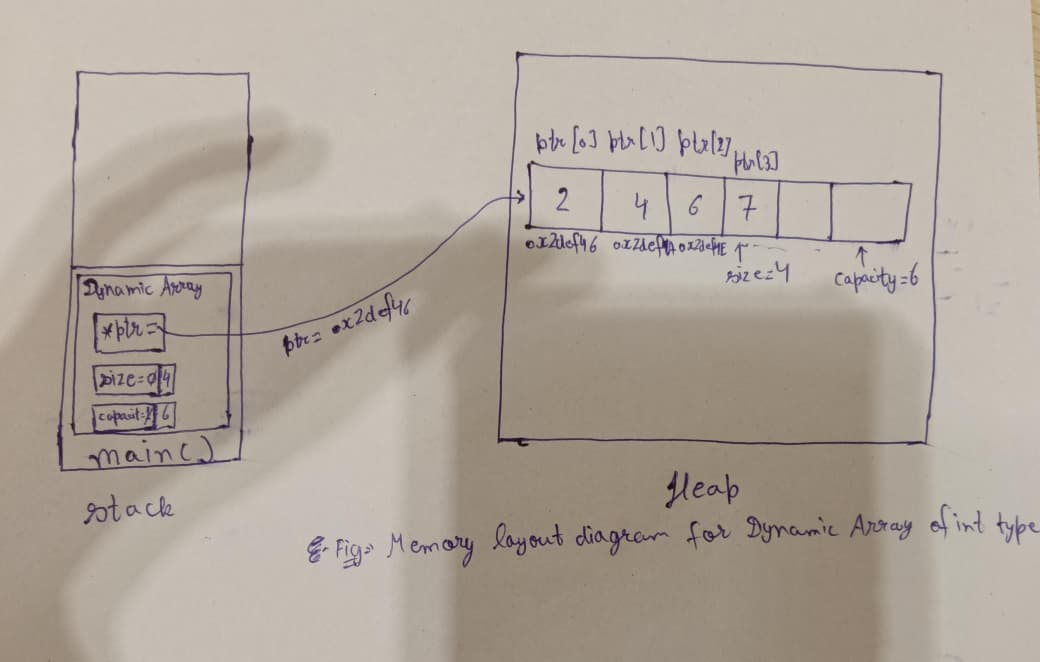
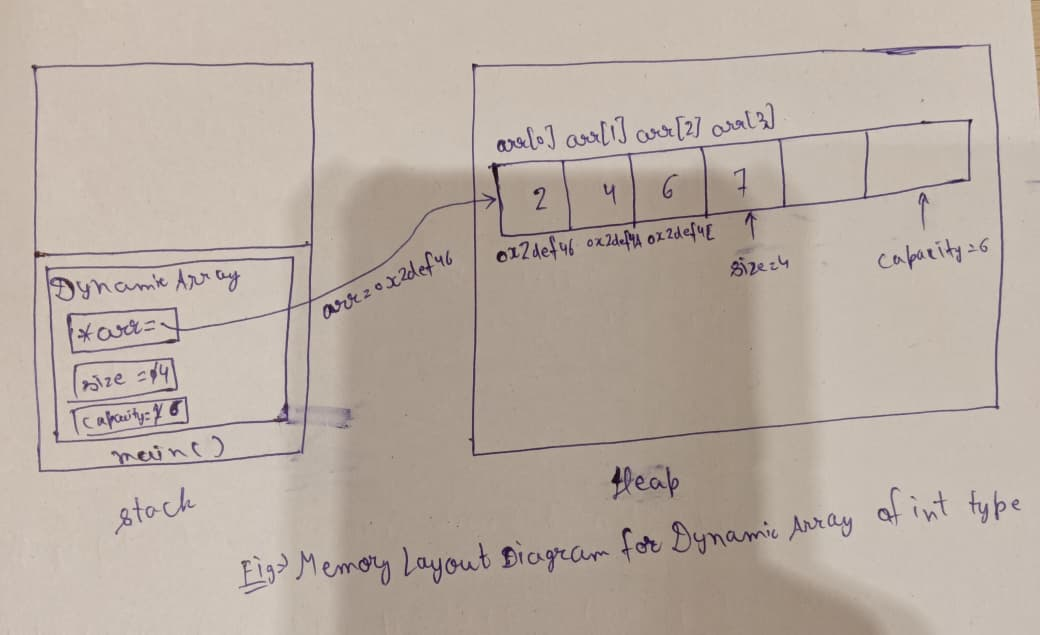
Finialized initial version

diff --git a/docs/dailyLogs/day1.md b/docs/dailyLogs/day1.md
@@ -1,0 +1,110 @@
+# Daily Log Journal
+
+**Project Title:** Building a Data Structures Library and Redis Lite  
+**Student Name:** Suman Mondal  
+**Date:** 06 July 2026  
+
+---
+
+# Objective of the Day
+
+Today's objective was to complete the design phase of the Dynamic Array before starting the implementation. The focus was on defining the public interface, understanding the internal memory representation, analysing the time complexity of each operation, and documenting the major design decisions that will guide the implementation.
+
+---
+
+# Work Completed
+
+## 1. Public API Design
+
+I began by identifying the essential operations that a Dynamic Array should support. For each operation, I documented its purpose, parameters, return type, and expected behaviour.
+
+The APIs finalized today include:
+
+- `push_back(T ele)`
+- `pop_back()`
+- `insertAtIndex(int index, T ele)`
+- `deleteAtIndex(int index)`
+- `get(int index)`
+- `isEmpty()`
+- `isFull()`
+- `getSize()`
+
+This helped establish a clear interface before moving to implementation.
+
+---
+
+## 2. Internal Representation
+
+After finalizing the API, I designed the internal structure of the Dynamic Array.
+
+The class will maintain three data members:
+
+- `T* arr`
+- `int size`
+- `int capacity`
+
+I studied how these members are stored in memory and calculated the memory occupied by the object itself on a 64-bit system. I also prepared memory layout diagrams to visualize the relationship between the Dynamic Array object and the dynamically allocated memory block.
+
+In addition, I documented why the class should follow the **Rule of Three** to ensure proper management of dynamically allocated memory.
+
+---
+
+## 3. Complexity Analysis
+
+I analysed the time complexity of every public operation.
+
+For each function, I documented:
+
+- Best-case complexity
+- Average-case complexity
+- Worst-case complexity
+
+Special attention was given to the `push_back()` operation. I studied the resizing process and analysed why repeated insertions have **O(1) amortized** time complexity despite occasional resizing operations.
+
+---
+
+## 4. Design Decisions
+
+Finally, I documented the important implementation decisions that will be followed throughout the project.
+
+These include:
+
+- Initializing `capacity` with `1`
+- Using contiguous memory allocation
+- Implementing the class as a template
+- Applying encapsulation
+- Following the Rule of Three
+- Using exception handling for invalid operations
+- Adopting the capacity-doubling strategy for automatic resizing
+
+These decisions provide a clear roadmap for the implementation phase.
+
+---
+
+# Challenges Faced
+
+While analysing the Dynamic Array, I initially found it difficult to understand why `push_back()` is considered an **O(1) amortized** operation even though resizing requires copying all existing elements. After studying the capacity doubling strategy and the geometric series formed during resizing, I understood how the resizing cost is distributed across multiple insertions.
+
+Another challenge was deciding the initial value of `capacity`. I considered initializing it to `0`, but after analysing the resizing logic, I concluded that starting with a capacity of `1` is necessary to allow successful memory allocation during the first insertion.
+
+---
+
+# Key Learning
+
+Today's work improved my understanding of several important concepts:
+
+- Designing a clear public interface before implementation.
+- Internal memory representation of a Dynamic Array.
+- Difference between stack memory and heap memory.
+- Importance of contiguous memory allocation.
+- Rule of Three for resource management.
+- Amortized analysis of Dynamic Arrays.
+- Trade-off between runtime performance and memory utilization during resizing.
+
+---
+
+# Summary of Progress
+
+Today's work resulted in the successful completion of the design phase of the Dynamic Array. The complete Public API, Internal Representation, Complexity Analysis, and Design Decisions have been documented. This provides a solid foundation for beginning the implementation without requiring major design changes later.
+
+---

diff --git a/docs/buildLogs/build_logDay2Session2.md b/docs/buildLogs/build_logDay2Session2.md
@@ -1,0 +1,100 @@
+# Build Log
+
+**Project Title:** Building a Data Structures Library and Redis Lite  
+**Student Name:** Suman Mondal
+**Date:** 06 July 2026 
+---
+# Session 2
+
+**Duration:** 2 Hours
+
+### Goal
+
+Finalize the design decisions for Dynamic Array and analyze the computational complexity of every public operation.
+
+The objectives were:
+
+- Determine the complexity of each API.
+- Justify the resizing strategy.
+- Decide how memory should grow when capacity becomes full.
+- Document implementation decisions before coding.
+
+---
+
+### Problem Encountered
+
+The biggest challenge during this session was explaining why `push_back()` has **O(1) amortized** complexity even though resizing requires copying all existing elements.
+
+At first glance, resizing appears to make insertion an **O(n)** operation.
+
+Another difficulty was selecting an appropriate capacity growth strategy.
+
+Possible options included:
+
+- Increase by one element
+- Increase by a fixed number
+- Increase by a multiplication factor
+
+Each approach has different trade-offs between runtime performance and memory utilization.
+
+---
+
+### What I Tried
+
+I analyzed the behavior of Dynamic Arrays during repeated insertions.
+
+Instead of increasing capacity by one element every time, I chose the **capacity doubling strategy**.
+
+I mathematically analyzed the resizing process.
+
+After every resize:
+
+- Capacity doubles.
+- The number of resizing operations after inserting `n` elements becomes **O(log n)**.
+- The total number of copied elements forms the geometric progression:
+
+```
+1 + 2 + 4 + 8 + ... + n/2
+```
+
+which sums to:
+
+```
+n - 1
+```
+
+Therefore, the total work performed during `n` insertions becomes approximately:
+
+```
+2n - 1
+```
+
+This proves that the average cost of each insertion remains constant, giving **O(1) amortized** complexity.
+
+I also estimated the complexity of every remaining API and documented the reasoning behind each complexity value.
+
+Finally, I added implementation decisions regarding:
+
+- Rule of Three
+- contiguous memory allocation
+- template-based generic programming
+- encapsulation
+- exception handling
+- automatic resizing strategy
+
+---
+
+### Outcome
+
+The Dynamic Array design proposal was completed with all four major sections:
+
+- Public API
+- Internal Representation
+- Complexity Estimates
+- Design Decisions
+
+The resizing strategy is now mathematically justified instead of being based only on intuition.
+
+I also gained a much deeper understanding of why Dynamic Arrays provide constant-time random access while insertion and deletion in the middle require linear time due to element shifting.
+
+The proposal is now sufficiently detailed to begin the actual implementation phase with a clear understanding of both the data structure and its design trade-offs.

diff --git a/docs/buildLogs/build_logDay1Session1.md b/docs/buildLogs/build_logDay1Session1.md
@@ -1,0 +1,89 @@
+# Build Log
+
+**Project Title:** Building a Data Structures Library and Redis Lite  
+**Student Name:** Suman Mondal
+**Date:** 06 July 2026 
+---
+
+# Session 1
+
+**Duration:** 2 Hours
+
+### Goal
+
+Prepare the design proposal for the Dynamic Array implementation before writing any production code.
+
+The objectives for this session were:
+
+- Design the public API of the Dynamic Array.
+- Decide the internal data members required.
+- Define the responsibilities of each public function.
+- Decide the initial values of `size` and `capacity`.
+- Study how a Dynamic Array manages memory internally.
+
+---
+
+### Problem Encountered
+
+Initially, I focused only on the list of operations (`push_back`, `pop_back`, `insert`, etc.) without considering how the object itself would be represented in memory.
+
+While designing the API, I realized that every operation depends on three internal variables:
+
+- Pointer to the dynamically allocated array
+- Current size
+- Current capacity
+
+Without clearly defining these data members first, it became difficult to explain how insertion, deletion, and resizing would actually work.
+
+Another challenge was deciding whether the initial capacity should be `0` or `1`.
+
+If both `size` and `capacity` started at `0`, then doubling the capacity during the first insertion would still result in `0`, preventing any memory allocation.
+
+---
+
+### What I Tried
+
+To solve these issues, I first analyzed the internal memory representation of a Dynamic Array.
+
+I decided to store three data members inside the class:
+
+- `T* arr`
+- `int size`
+- `int capacity`
+
+I also calculated the memory occupied by the object itself on a 64-bit system:
+
+- Pointer = 8 bytes
+- `size` = 4 bytes
+- `capacity` = 4 bytes
+
+Total object size = **16 bytes** (excluding dynamically allocated heap memory).
+
+Next, I prepared a hand-drawn memory layout diagram showing:
+
+- the Dynamic Array object on the stack,
+- the contiguous array allocated on the heap,
+- the relationship between the pointer and heap memory,
+- the values of `size` and `capacity`.
+
+After understanding the memory layout, I finalized the responsibilities of every public API function.
+
+---
+
+### Outcome
+
+At the end of the session, I completed the overall API design and the Internal Representation section of the design proposal.
+
+Major decisions finalized:
+
+- Dynamic Array will be implemented as a template class.
+- The object stores only three data members.
+- Initial `size` = 0.
+- Initial `capacity` = 1.
+- Heap memory is managed through a pointer.
+- Public interface and internal representation are now clearly separated.
+
+The memory layout diagram also gave me a much better understanding of how the object and heap memory interact during execution.
+
+---
+

diff --git a/docs/designProposal/arrayDesignProposal.md b/docs/designProposal/arrayDesignProposal.md
@@ -33,7 +33,7 @@ This proposal describes the design & structure of the Dynamic Array. In this pro
 
 **Parameter:**
 
-- There is no parameter, in this function we decrease the current size of the array and next time when needed a new element is overwrite in this memory space block. As after decresing the size of the array we lose the access to that address or memory block.
+- There is no parameter, in this function we decrease the current size of the array and next time when needed a new element is overwritten in this memory space block. As after decresing the size of the array we lose the access to that address or memory block.
 
 **Return Type:**
 
@@ -45,7 +45,7 @@ This proposal describes the design & structure of the Dynamic Array. In this pro
 
 - In this function we insert the element at the given index.
 - First all the later elements from that index are shifted to right and then we insert the new element at the given index.
-- If the array is full then we first allocate the bigger size array dynamically then copying the existing elements in it and then all the later elements from the given index are shifted to right and then we insert the new element at the given index.
+- If the array is full then we first allocate the bigger size array dynamically then copying the existing elements in it and then all the subsequent elements from the given index are shifted to right and then we insert the new element at the given index.
 - If the index is equal to the size of the array then we call the `push_back()` function and passed the element as a parameter to it.
 
 **Parameter:**
@@ -63,7 +63,7 @@ This proposal describes the design & structure of the Dynamic Array. In this pro
 - In this function the element is removed from the given index.
 - In this function we left shift all the later elements after the given index.
 - If the index is greater than the size of the array then we throw an exception.
-- If the index is equal to the size of the then we call `pop_back()`.
+- If the index is equal to one less than of size of the array (size-1) then we call `pop_back()`.
 
 **Parameter:**
 
@@ -79,7 +79,7 @@ This proposal describes the design & structure of the Dynamic Array. In this pro
 
 - In this function we return the value stored at the given index.
 - In this function we fetch the value from the array by indexing which means adding the index to the base address or base pointer.
-- If the index is larger than the size of the array then we throw an exception.
+- If the index is equal to or larger than the size of the array then we throw an exception.
 
 **Parameter:**
 
@@ -95,7 +95,7 @@ This proposal describes the design & structure of the Dynamic Array. In this pro
 
 - In this function we return the true or false, whether the array is empty is empty or not.
 - It can be used before deleting any element from the array so that we can prevent the program from the exceptions.
-- In this function we check the size of the array, if the size of the array is `0` then we return false else retunr true.
+- In this function we check the size of the array, if the size of the array is `0` then we return true else retunr false.
 
 **Parameter:**
 
@@ -134,14 +134,17 @@ This proposal describes the design & structure of the Dynamic Array. In this pro
 ```cpp
 template<typename T>
 class DynamicArray{
-    T* ptr;
+    T* arr;
     int size;
     int capacity;
 public:
+    ~DynamicArray();
+    DynamicArray(const DynamicArray& other);
+    DynamicArray& operator=(const DynamicArray& other);
     DynamicArray(){
         size=0;
         capacity=1;
-        ptr=(T*)malloc(sizeof(T)*capacity);
+        arr=(T*)malloc(sizeof(T)*capacity);
     }
     void push_back(T ele);
     void pop_back();
@@ -180,6 +183,7 @@ public:
 
   >This calculation only represents the size of the object's data members.
 - The internal representation defines how the Dynamic Array is implemented and managed in memory.
+- The memory layout diagram of dynamic array object defines that the object itself resides on the stack, while the elements are stored in a dynamically allocated contiguous memory block on the heap. The array pointer (arr) stores the base address of this memory block.
 - ![Dynamic Array Memory Layout](../Images/ArrayMemoryLayout.jpeg)
 - ![Dynamic Array Memory Layout](../Images/ArrayMemoryDiagram.png)
 